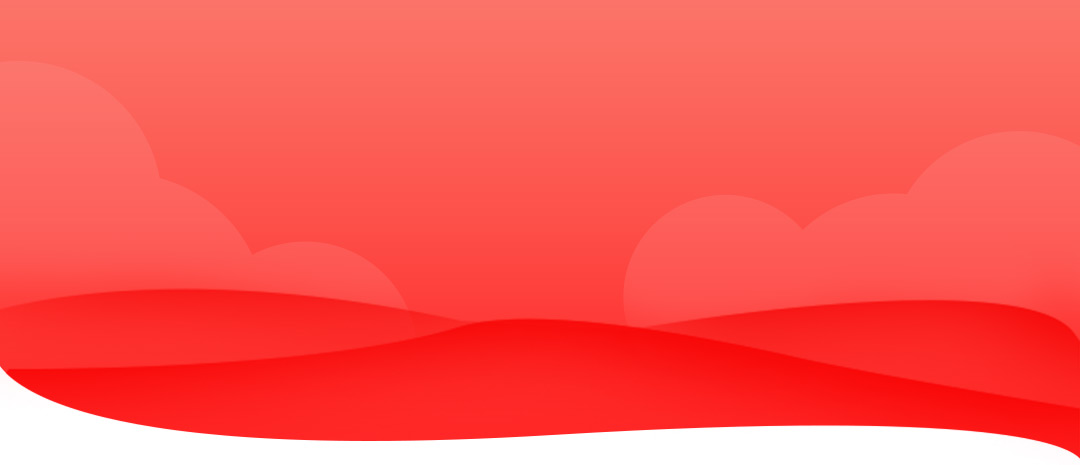
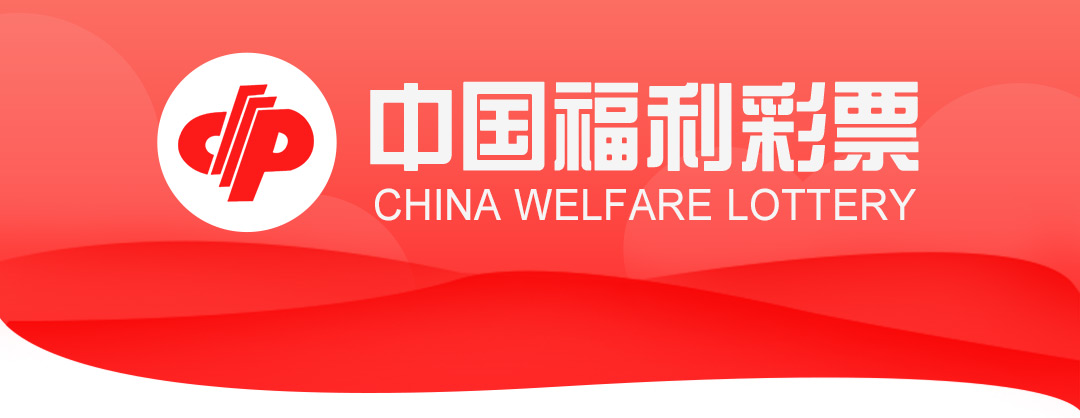
123

Changed region(s): [[0.0, 0.1244, 1.0, 0.8708], [0.2139, 0.9019, 1.0, 0.9952], [0.0, 0.7153, 0.3056, 0.933]]

diff --git a/wjinc/default/newuser/login.php b/wjinc/default/newuser/login.php
@@ -11,8 +11,8 @@
 <body>
 <div class="wrap_box w_height">
     <div class="rel">
-        <img src="/wjinc/default/images/login_bg.jpg">
-        <img class="login_logo" src="/wjinc/default/images/logo_new.png">
+        <img src="/wjinc/default/images/login_bg.jpg?a=1">
+        <!-- <img class="login_logo" src="/wjinc/default/images/logo_new.png"> -->
     </div>
     <div class="login_con">
         <form >
